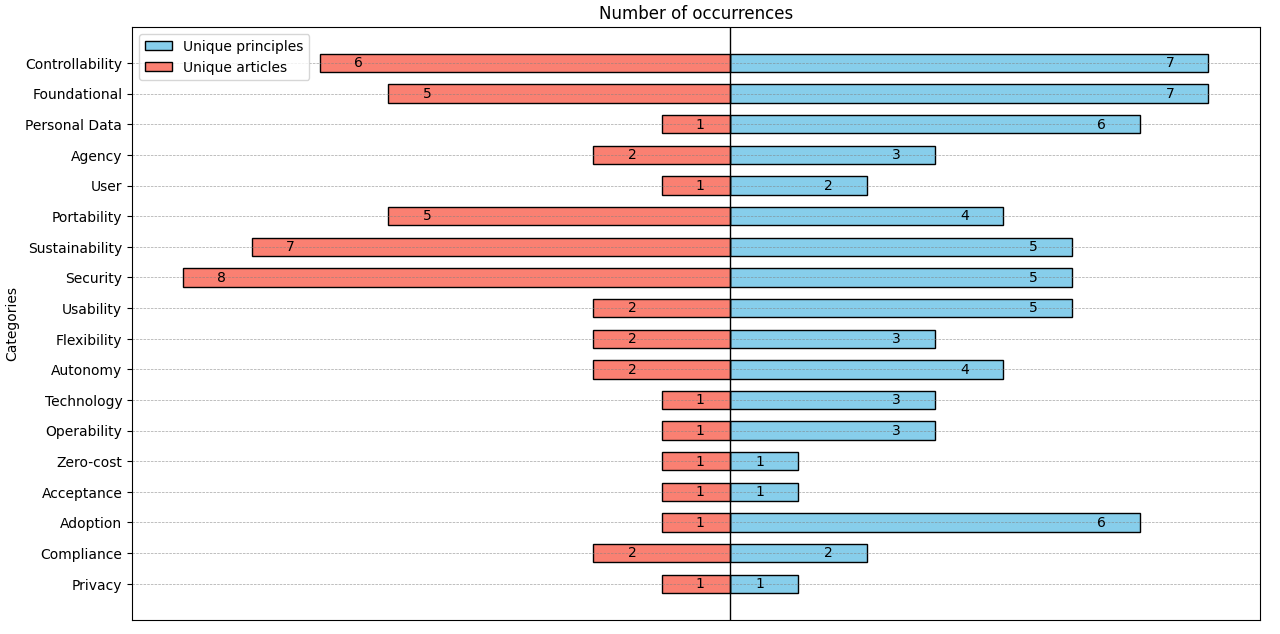
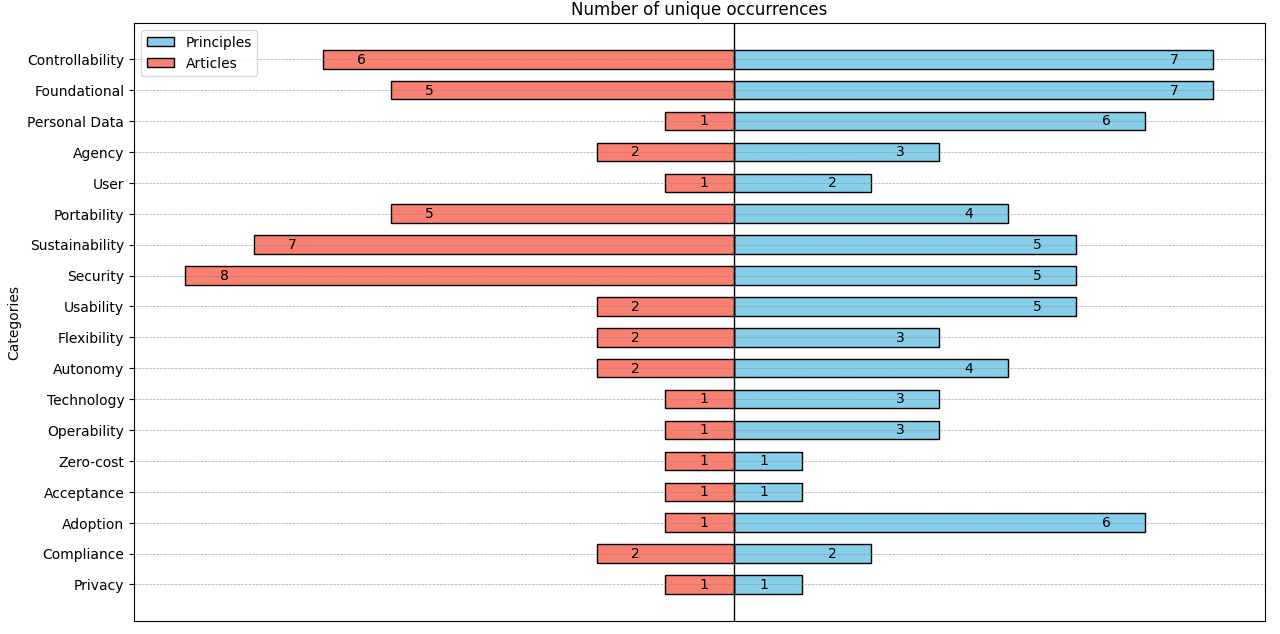
.

diff --git a/definition/program/recording_of_principles/BubbleChart.py b/definition/program/recording_of_principles/BubbleChart.py
@@ -1,0 +1,53 @@
+import matplotlib.pyplot as plt
+import numpy as np
+
+# Dati estratti dalla tabella
+autori = ["Tobin and Reed", "Andrieu et al.", "Ferdous et al.", "Mühle et al.", "Gilani et al.", "Naik and Jenkins", "Sheldrake", "Toth and Kalman", "eSSIF-Lab", "ToIP", "Sovrin", "BkThDVr", "Glöckler et al.", "Pava-Díaz et al.", "Satybaldy et al.", "Stokkink and Pouwelse", "Čučko et al.", "Allen"]
+
+principi = ["Existence and representation", "Consent", "Ownership and control", "Security and protection", "Persistence", "Privacy and minimal disclosure", "Access and availability", "Transparency", "Portability", "Interoperability", "Cost", "Standard", "Decentralization and Autonomy", "Verifiability and Authenticity", "Usability and consistency"]
+
+# Mappatura della tabella in formato binario (1 se il principio è presente per l'autore, altrimenti 0)
+dati = np.array([
+    [1, 1, 1, 1, 1, 1, 1, 1, 1, 1, 0, 0, 0, 0, 0],  # Tobin and Reed
+    [0, 1, 0, 0, 0, 1, 0, 0, 0, 0, 1, 1, 0, 0, 1],  # Andrieu et al.
+    [1, 1, 1, 1, 1, 1, 1, 1, 1, 1, 1, 1, 1, 1, 1],  # Ferdous et al.
+    [1, 1, 1, 1, 1, 0, 1, 1, 1, 1, 0, 0, 0, 0, 0],  # Mühle et al.
+    [1, 1, 1, 1, 1, 1, 1, 1, 1, 1, 1, 1, 1, 0, 0],  # Gilani et al.
+    [0, 1, 1, 1, 1, 1, 1, 0, 1, 1, 0, 1, 1, 0, 1],  # Naik and Jenkins
+    [1, 1, 1, 0, 1, 0, 0, 0, 0, 0, 0, 0, 0, 0, 0],  # Sheldrake
+    [0, 1, 1, 0, 1, 1, 0, 1, 0, 0, 0, 0, 1, 0, 1],  # Toth and Kalman
+    [0, 1, 0, 0, 0, 0, 0, 0, 0, 0, 0, 0, 0, 1, 0],  # eSSIF-Lab
+    [1, 1, 1, 1, 1, 1, 1, 1, 1, 1, 1, 1, 1, 1, 1],  # ToIP
+    [1, 0, 1, 1, 0, 1, 1, 1, 1, 0, 1, 1, 0, 0, 1],  # Sovrin
+    [1, 1, 1, 1, 1, 1, 1, 0, 0, 1, 1, 1, 1, 0, 1],  # BkThDVr
+    [0, 1, 1, 0, 0, 1, 1, 1, 1, 1, 1, 1, 0, 1, 1],  # Glöckler et al.
+    [1, 1, 1, 0, 1, 1, 0, 0, 1, 0, 0, 0, 1, 1, 1],  # Pava-Díaz et al.
+    [0, 1, 0, 1, 1, 0, 0, 1, 1, 0, 1, 1, 1, 1, 1],  # Satybaldy et al.
+    [1, 1, 0, 0, 1, 1, 1, 1, 0, 1, 1, 0, 1, 1, 1],  # Stokkink and Pouwelse
+    [1, 1, 0, 1, 1, 0, 0, 0, 1, 1, 0, 0, 0, 1, 1],  # Čučko et al.
+    [1, 1, 0, 1, 1, 0, 0, 0, 1, 1, 0, 0, 0, 1, 1],  # Allen
+])
+
+# Creazione del grafico
+fig, ax = plt.subplots(figsize=(12, 8))
+
+# Creazione delle bolle
+for i in range(len(autori)):
+    for j in range(len(principi)):
+        if dati[i, j] == 1:
+            ax.scatter(j, i, s=100, color='blue', alpha=0.6)
+
+# Etichette degli assi
+ax.set_xticks(range(len(principi)))
+ax.set_xticklabels(principi, rotation=45, ha="right")
+ax.set_yticks(range(len(autori)))
+ax.set_yticklabels(autori)
+
+# Titolo del grafico
+ax.set_title("Distribuzione dei Principi tra gli Autori")
+
+plt.xlabel("Categories")
+plt.ylabel("Papers")
+# Mostrare il grafico
+plt.grid(True, linestyle='--', alpha=0.5)
+plt.show()

diff --git a/definition/program/clustering/graphs/Distribution_of_Principles_and_Articles_Occurrences_by_Category.py b/definition/program/clustering/graphs/Distribution_of_Principles_and_Articles_Occurrences_by_Category.py
@@ -23,8 +23,8 @@ y = np.arange(len(concepts))
 plt.figure(figsize=(12, 8))
 
 # Horizontal bars (bidirectional with positive values)
-bars1 = plt.barh(y, principles, color='skyblue', edgecolor='black', label="Unique principles", height=0.6)
-bars2 = plt.barh(y, -articles, color='salmon', edgecolor='black', label="Unique articles", height=0.6)  # Flipping direction
+bars1 = plt.barh(y, principles, color='skyblue', edgecolor='black', label="Principles", height=0.6)
+bars2 = plt.barh(y, -articles, color='salmon', edgecolor='black', label="Articles", height=0.6)  # Flipping direction
 
 # Add dashed grid lines for each row
 for i in y:
@@ -42,7 +42,7 @@ for bar in bars2:
 # Labels and title
 plt.xlabel("")  # Remove X-axis label
 plt.ylabel("Categories")
-plt.title("Number of occurrences")
+plt.title("Number of unique occurrences")
 plt.yticks(y, concepts)
 plt.xticks([])  # Remove X-axis numbers
 plt.axvline(0, color='black', linewidth=1)  # Vertical reference line at 0

diff --git a/definition/Definition.md b/definition/Definition.md
@@ -92,6 +92,9 @@ Figure 3 puts into perspective the list of principles (horizontal axis) with the
 
 We used this finding to extract a subset of principles for SSI, and applying a heuristic based on the number of citations; namely, we selected principles cited by at least the 25% of the authors. This heuristic of 25% is a typified strategy that aids in making decisions efficiently by relying on practical rules.[^heuristic] Thus, the final list includes principles that surpass the red threshold in Figure 3. The final list is reported in [Table 3](https://cristianlepore.github.io/Self-Sovereign-Identity/definition/tables/principles_semplification/Principles_semplification1.html), and accounts for 15 principles - 10 from Allen plus five. Note that the merging process has collapsed some of their names within the same cell.
 
+![Category frequency](/definition/images/recording_of_principles/Bubble.png)
+*Figure 4: *
+
 [Click to view the table 3.](https://cristianlepore.github.io/Self-Sovereign-Identity/definition/tables/principles_semplification/Principles_semplification1.html) *Our final list of properties and their namings.*
 
 ### 1.3.4 Clustering
@@ -114,6 +117,8 @@ Questions 1 and 2 are addressed by Figure 4. Questions 3 and 4 are addressed in 
 
 
 INSERIRE APPENDICE CON I PROGRAMMI USATI ED IL CODICE;
+PER OGNI PRINCIPIO? QUALI ARTICOLO LO CITA
+PER OGNI CLASSE, QUALI ARTICOLI LO CITA
 
 ![Category frequency](/definition/images/clusters/CategoryFrequency.png)
 *Figure 4: *
